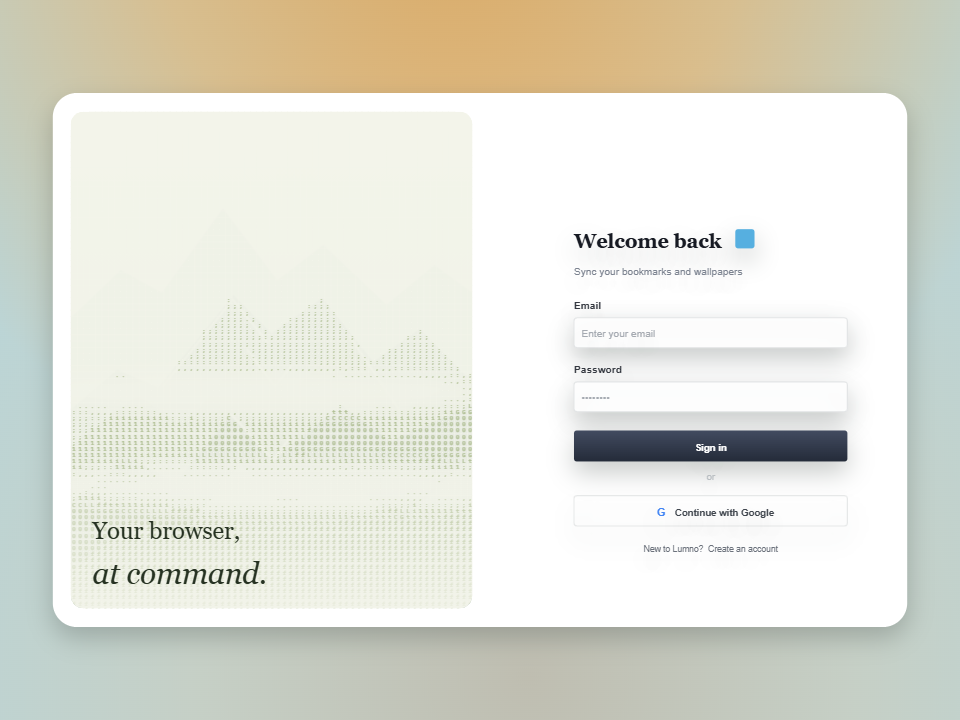
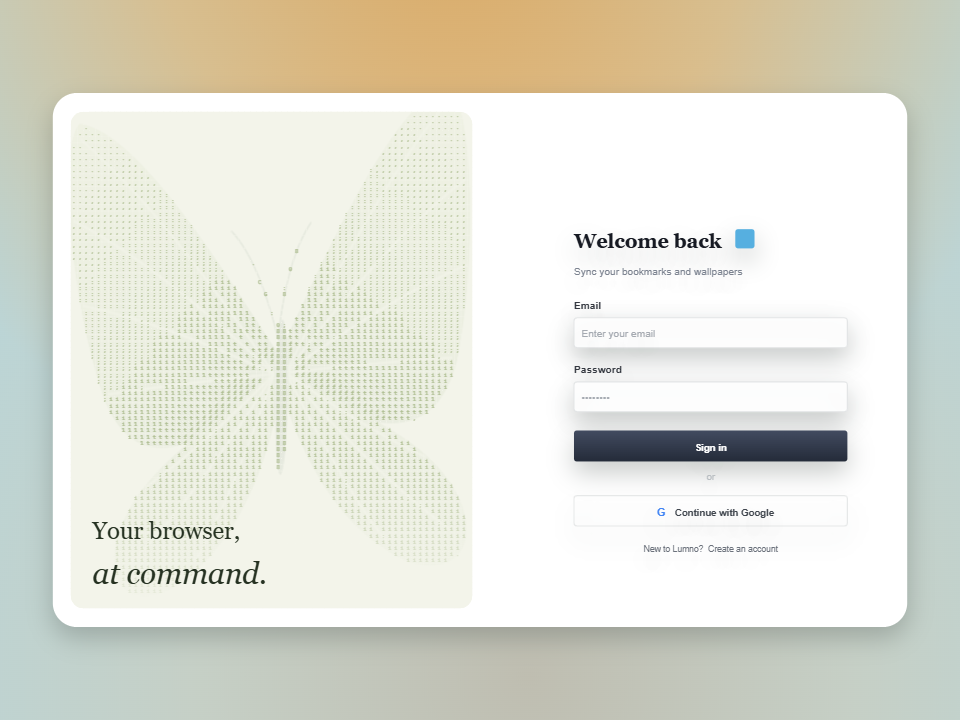
Use animated butterfly in Dither and ASCII demo

Changed region(s): [[0.0625, 0.2444, 0.5, 0.7944], [0.0625, 0.6722, 0.125, 0.7639], [0.0938, 0.2444, 0.1562, 0.275]]

diff --git a/site/dither-ascii.js b/site/dither-ascii.js
@@ -5,6 +5,9 @@
   const chars = ' .,:;i1tfLCG08@';
   const source = document.createElement('canvas');
   const sample = source.getContext('2d', {willReadFrequently:true});
+  const butterfly = document.createElement('canvas');
+  butterfly.width = 900; butterfly.height = 1200;
+  const butterflyContext = butterfly.getContext('2d');
   const phases = state => {
     let start = 0;
     return [
@@ -36,6 +39,35 @@
     ctx.translate(w/2+(card.x||0)*w/1080, h/2+(card.y||0)*h/1080);
     ctx.rotate((card.rotation||0)*Math.PI/180);
     ctx.drawImage(image,-dw/2,-dh/2,dw,dh);
+    ctx.restore();
+  }
+  function drawButterfly(ctx,time) {
+    ctx.save();ctx.setTransform(900,0,0,1200,0,0);
+    ctx.fillStyle='#f3f4ea';ctx.fillRect(0,0,1,1);
+    const flutter=(1+Math.cos(time*Math.PI*2/2.3))*.5;
+    ctx.translate(.52,.51);ctx.rotate(-.08);
+    function wing(side,fold) {
+      ctx.save();ctx.scale(side*fold,1);
+      const upper=ctx.createLinearGradient(-.46,-.48,-.02,.15);
+      upper.addColorStop(0,'#c7d4a6');upper.addColorStop(.6,'#a8bd8e');upper.addColorStop(1,'#819b83');
+      ctx.fillStyle=upper;ctx.beginPath();ctx.moveTo(0,-.02);
+      ctx.bezierCurveTo(-.12,-.18,-.31,-.46,-.46,-.49);
+      ctx.bezierCurveTo(-.52,-.45,-.51,-.16,-.44,.03);
+      ctx.bezierCurveTo(-.36,.21,-.15,.11,0,.03);ctx.fill();
+      ctx.fillStyle='#a9bd94';ctx.beginPath();ctx.moveTo(-.02,.01);
+      ctx.bezierCurveTo(-.15,.10,-.36,.15,-.43,.29);
+      ctx.bezierCurveTo(-.48,.42,-.33,.43,-.23,.36);
+      ctx.bezierCurveTo(-.09,.28,-.02,.12,0,.04);ctx.fill();
+      ctx.strokeStyle='#e4ebd5';ctx.lineWidth=.005;ctx.globalAlpha=.75;
+      for(const [x,y] of [[-.46,-.46],[-.49,-.31],[-.48,-.15],[-.43,.02],[-.35,.20],[-.40,.34],[-.24,.35]]) {
+        ctx.beginPath();ctx.moveTo(-.015,.015);ctx.quadraticCurveTo(x*.6,y*.7,x,y);ctx.stroke();
+      }
+      ctx.restore();
+    }
+    wing(1,.35+.65*flutter);wing(-1,.26+.74*flutter);
+    ctx.fillStyle='#718977';ctx.beginPath();ctx.ellipse(0,.06,.016,.145,.1,0,Math.PI*2);ctx.fill();
+    ctx.strokeStyle='#718977';ctx.lineWidth=.004;
+    for(const side of [-1,1]){ctx.beginPath();ctx.moveTo(0,-.05);ctx.quadraticCurveTo(side*.035,-.20,side*.10,-.26);ctx.stroke();}
     ctx.restore();
   }
   function revealAt(state, time) {
@@ -96,6 +128,7 @@
     if (source.width!==sw || source.height!==sh) {source.width=sw;source.height=sh;}
     sample.fillStyle=scene.background;sample.fillRect(0,0,sw,sh);
     for (const card of cards) {
+      if(card.libraryId==='dither-ascii-demo') {drawButterfly(butterflyContext,Math.max(0,time)%duration(state));cover(sample,butterfly,sw,sh,card);continue;}
       const asset = resources.get(card.libraryId);
       const image = asset?.animated ? window.CellMotionAnimatedImage.frameAt(asset.animated,time)?.image || asset.image : asset?.image;
       if (image?.width) cover(sample,image,sw,sh,card);

diff --git a/site/dither-ascii.html b/site/dither-ascii.html
@@ -2,8 +2,8 @@
 <html lang="zh-CN"><head><meta charset="utf-8"><meta name="viewport" content="width=device-width,initial-scale=1,viewport-fit=cover">
 <title>网格显影 Dither / ASCII | CellMotion</title><meta name="description" content="把图片转换为可调的 Dither 或 ASCII 字符画，支持遮罩、色调与 PNG / GIF / MP4 导出。">
 <link rel="icon" href="favicon.svg"><link rel="stylesheet" href="shared-fonts.css"><link rel="stylesheet" href="me-motion-editor.css?v=20260909-timeline-color">
-<link rel="stylesheet" href="typecascade-workspace.css"><link rel="stylesheet" href="typecascade-polish.css"><link rel="stylesheet" href="cardmotion-editor.css"><link rel="stylesheet" href="archive-motion.css"><link rel="stylesheet" href="dither-ascii.css?v=20261028-1"></head>
+<link rel="stylesheet" href="typecascade-workspace.css"><link rel="stylesheet" href="typecascade-polish.css"><link rel="stylesheet" href="cardmotion-editor.css"><link rel="stylesheet" href="archive-motion.css"><link rel="stylesheet" href="dither-ascii.css?v=20261029-butterfly1"></head>
 <body class="tc-workspace me-motion-editor cm-editor" data-cardmotion="dither-ascii" data-editor-theme="dark"><div id="editorLoading" role="status">正在加载编辑器…</div>
 <script src="shared-font-library.js"></script><script src="shared-icon-library.js"></script><script src="cellmotion-animated-image.js"></script>
 <script src="js/continuation-gif.js"></script><script src="js/h264-mp4-encoder.web.js"></script><script src="cellmotion-ai-manifest.js"></script>
-<script src="dither-ascii.js?v=20261028-1"></script><script src="cellmotion-effect-bridge.js"></script><script src="cardmotion-editor.js?v=20261028-1"></script><script src="typecascade-selects.js"></script></body></html>
+<script src="dither-ascii.js?v=20261029-butterfly1"></script><script src="cellmotion-effect-bridge.js"></script><script src="cardmotion-editor.js?v=20261028-1"></script><script src="typecascade-selects.js"></script></body></html>

diff --git a/site/index.html b/site/index.html
@@ -100,7 +100,7 @@
     <img id="contact-wechat" loading="lazy" src="assets/cellmotion/contact-wechat.jpg" alt="微信 allen_8838，扫码联系" hidden>
   </dialog>
   <footer class="footer wrap"><div class="footer-top"><a class="brand original-brand" href="./" aria-label="CellMotion 首页"><img class="logo-source" src="assets/cellmotion/logo-web.webp?v=20261012-1" alt="CellMotion"></a><p>And let design grow.</p><a href="#main" class="text-link">回到顶部 ↑</a></div><div class="footer-bottom"><span>MOVE · CONNECT · RECOMBINE · GROW</span><span>基于 Space Type Generator 等开源项目持续创作 · 保留原作署名与许可</span><a href="cellmotion-components.html">浏览组件库 ↗</a></div></footer>
-  <script defer src="cellmotion.js?v=20261028-dither1"></script>
+  <script defer src="cellmotion.js?v=20261029-butterfly1"></script>
 
 <script defer src="site-preferences.js?v=20260926-24"></script>
 </body>

diff --git a/site/gallery.js b/site/gallery.js
@@ -1,5 +1,5 @@
 const effects = [
-  ["dither-ascii", "网格显影", "Dither / ASCII", "graphic", "Bayer 抖动 · ASCII 字符画 · 可调遮罩与采样"],
+  ["dither-ascii", "网格显影", "Dither / ASCII", "graphic", "蝴蝶振翅 · Bayer 抖动 · ASCII 字符画"],
   ["metallic-text", "金属流光", "Metallic Text", "type", "宽扁银字 · 冷暖反光 · 金属流光"],
   ["bubble-frame", "流体泡泡", "Bubble Fluid", "type", "软体字流动 · 荧光配色 · 舞台光影"],
   ["glass-icon-reveal", "玻璃显标", "Glass Icon Reveal", "graphic", "水滴凝结 · 玻璃折射 · 标志显现"],

diff --git a/site/cellmotion.js b/site/cellmotion.js
@@ -317,7 +317,7 @@ document.addEventListener('visibilitychange',()=>{
 });
 async function loadCatalogData() {
   try {
-    const response=await fetch('cellmotion-catalog.json?v=20261028-dither1');
+    const response=await fetch('cellmotion-catalog.json?v=20261029-butterfly1');
 
     if(!response.ok)throw new Error(`Catalog HTTP ${response.status}`);
     const catalog=await response.json();

diff --git a/site/cellmotion-components.html b/site/cellmotion-components.html
@@ -54,7 +54,7 @@
     </div>
     <img id="contact-wechat" src="assets/cellmotion/contact-wechat.jpg" alt="微信 allen_8838，扫码联系" hidden>
   </dialog>
-  <script defer src="cellmotion.js?v=20261028-dither1"></script>
+  <script defer src="cellmotion.js?v=20261029-butterfly1"></script>
 
 <script defer src="site-preferences.js?v=20260926-18"></script>
 </body>

diff --git a/site/gallery.html b/site/gallery.html
@@ -78,7 +78,7 @@
     <p>部分动效基于 Space Type Generator 与 LTMorphingLabel 二次开发，并保留原作者署名与许可。</p>
   </footer>
 
-  <script src="gallery.js?v=20261028-dither1"></script>
+  <script src="gallery.js?v=20261029-butterfly1"></script>
 <script defer src="site-preferences.js?v=20260926-18"></script>
 </body>
 </html>

diff --git a/tests/dither-ascii-browser.py b/tests/dither-ascii-browser.py
@@ -42,9 +42,10 @@ try:
         result = page.evaluate("""() => {
           const s=CardMotionEditor.getScheme(),c=document.createElement('canvas');c.width=240;c.height=300;
           const g=c.getContext('2d'),render=(t)=>{CardMotionEditor.draw(g,t,240,300);return c.toDataURL()};
-          return {source:render(0),dither:render(2),repeat:render(2),end:render(CardMotion.duration(s))};
+          return {source:render(0),flutter:render(.25),dither:render(2),repeat:render(2),end:render(CardMotion.duration(s))};
         }""")
         assert result["source"] != result["dither"]
+        assert result["source"] != result["flutter"]
         assert result["dither"] == result["repeat"]
         assert result["source"] == result["end"]
         poster = page.evaluate("""() => {const c=document.createElement('canvas');c.width=960;c.height=720;CardMotionEditor.draw(c.getContext('2d'),2.3,960,720);return c.toDataURL('image/png').split(',')[1]}""")

diff --git a/docs/analyses/dither-ascii.md b/docs/analyses/dither-ascii.md
@@ -4,14 +4,14 @@ Source: https://x.com/Kubai087/status/2115091203465290087 (retrieved 2026-10-28)
 
 ## Observed composition
 
-The upper half is a white rounded two-column login card over a blurred cyan and orange backdrop. Its left panel shows a muted sage landscape converted to a fine ASCII or Dither grid, with “Your browser, at command.” at the bottom. Its right panel contains “Welcome back”, email and password fields, a dark sign-in button, a Google button, and a signup prompt. The lower half is a dark control area with mask effect, ASCII / Dither mode, five color swatches, sampling strength, size, and spacing. ASCII mode also exposes Shadows / Highlights sampling.
+The upper half is a white rounded two-column login card over a blurred cyan and orange backdrop. Its left panel shows a pale sage butterfly flapping, converted to a fine ASCII or Dither grid, with “Your browser, at command.” at the bottom. The wing silhouettes overlap and fold in the sampled frames; they were initially misread as landscape ridges. Its right panel contains “Welcome back”, email and password fields, a dark sign-in button, a Google button, and a signup prompt. The lower half is a dark control area with mask effect, ASCII / Dither mode, five color swatches, sampling strength, size, and spacing. ASCII mode also exposes Shadows / Highlights sampling.
 
 ## Observed progression and implementation
 
 | Video phase | Evidence | CellMotion implementation |
 | --- | --- | --- |
-| Opening | The landscape appears as sage ASCII with size 37, mask about 90, strength 100, spacing 0. | Default ASCII and sage colors; editable mask, sample region, strength, cell size, and spacing. |
-| Mode change | The pointer switches to Dither; the landscape becomes a much finer Bayer-like grid and size reads 15. | ASCII and Bayer 4 × 4 modes share the same source card. The user can set size independently. |
+| Opening | A butterfly flaps behind sage ASCII with size 37, mask about 90, strength 100, spacing 0. | An original butterfly renderer animates both wings; mask, sample region, strength, cell size, and spacing stay editable. |
+| Mode change | The pointer switches to Dither; the butterfly becomes a much finer Bayer-like grid and size reads 15. | ASCII and Bayer 4 × 4 modes share the same moving source card. The mode switch updates the default size. |
 | Parameter demo | The mask and other controls are adjusted while the login card stays in place. | Controls live in the CellMotion inspector; the composition keeps the same two-column card. |
 
-The reference is a parameter demonstration, not a fixed animation timeline. CellMotion adds an editable source → reveal → hold → reset timeline so the effect can be previewed and exported as motion. The login form is a visual composition, not an authentication flow. The landscape is original SVG artwork shaped to match the reference's tonal structure; the source video itself is not bundled in the project.
+The reference is a parameter demonstration, not a fixed animation timeline. CellMotion adds an editable source → reveal → hold → reset timeline so the effect can be previewed and exported as motion. The login form is a visual composition, not an authentication flow. The animated butterfly and library thumbnail are original vector artwork shaped to match the reference's tonal structure; the source video itself is not bundled in the project. Exact wing anatomy and the video’s flap timing remain uncertain because the grid treatment obscures those details.

diff --git a/README.md b/README.md
@@ -1,6 +1,6 @@
 # CellMotion —— 可编辑动效与视频创作平台
 
-**2026-10-28 网格显影 / Dither / ASCII**：[打开编辑器](site/dither-ascii.html?from=gallery)。根据[原帖视频](https://x.com/Kubai087/status/2115091203465290087)复刻双栏登录卡片、山景网格与橙蓝背景；支持 ASCII / Bayer 4×4 Dither、遮罩、色调、采样强度、大小、间距、素材上传、方案保存及 PNG / GIF / H.264 MP4 导出。视频拆解与实现取舍见[分析](docs/analyses/dither-ascii.md)。
+**2026-10-28 网格显影 / Dither / ASCII**：[打开编辑器](site/dither-ascii.html?from=gallery)。根据[原帖视频](https://x.com/Kubai087/status/2115091203465290087)复刻双栏登录卡片、振翅蝴蝶网格与橙蓝背景；支持 ASCII / Bayer 4×4 Dither、遮罩、色调、采样强度、大小、间距、素材上传、方案保存及 PNG / GIF / H.264 MP4 导出。视频拆解与实现取舍见[分析](docs/analyses/dither-ascii.md)。
 
 **2026-10-28 金属流光 / Metallic Text**：[打开编辑器](site/metallic-text.html?from=gallery)。宽扁银色文字内流动冷暖反光，支持共享字体、字形高度与加粗、字距、金属与反光配色、方向、阶段时长和画幅调整。对齐字芽的字体与背景折叠设置，支持图片/GIF/视频背景、取景缩放、视频胶片裁切、舞台背景、构图、精确数值及撤销/重做。31 项 For AI 参数保留媒体原始数据、取景和视频裁切；使用统一方案与 PNG / GIF / H.264 MP4 导出。默认字形基于 [Librestile](https://github.com/ocelothe/Librestile)，其 OFL 许可随字体保存在 `site/assets/fonts/librestile/OFL.txt`。运动依据与验证见[分析](docs/analyses/metallic-text.md)。
 
